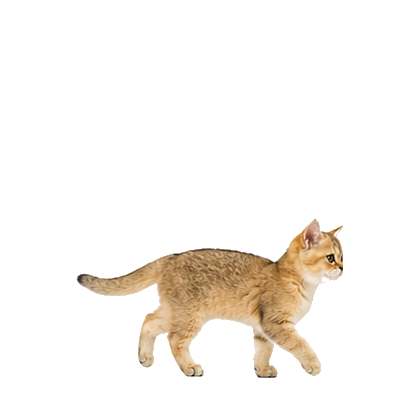
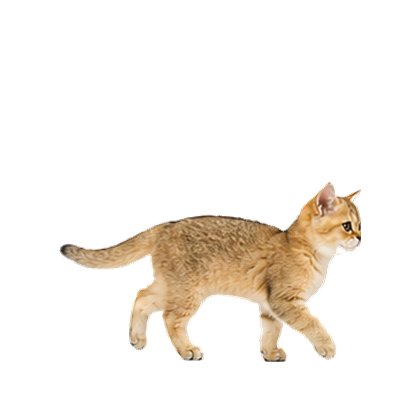
Stabilize walk animation timing

Changed region(s): [[0.1238, 0.4333, 0.8667, 0.8976]]

diff --git a/src/pet.js b/src/pet.js
@@ -20,6 +20,7 @@ const sizeMap = {
 const WALK_SCALE = 1.8;
 const WALK_DURATION_RANGE = [26000, 43000];
 const IDLE_DELAY_RANGE = [60000, 90000];
+const WALK_FRAME_INTERVAL = 480;
 
 const actionSprites = {
   idle: "assets/pet/actions/idle.png",
@@ -235,7 +236,7 @@ function startWalking() {
   walkFrameTimer = window.setInterval(() => {
     walkIndex = (walkIndex + 1) % walkSprites.length;
     elements.image.src = walkSprites[walkIndex];
-  }, 135);
+  }, WALK_FRAME_INTERVAL);
 }
 
 function stopWalking() {
